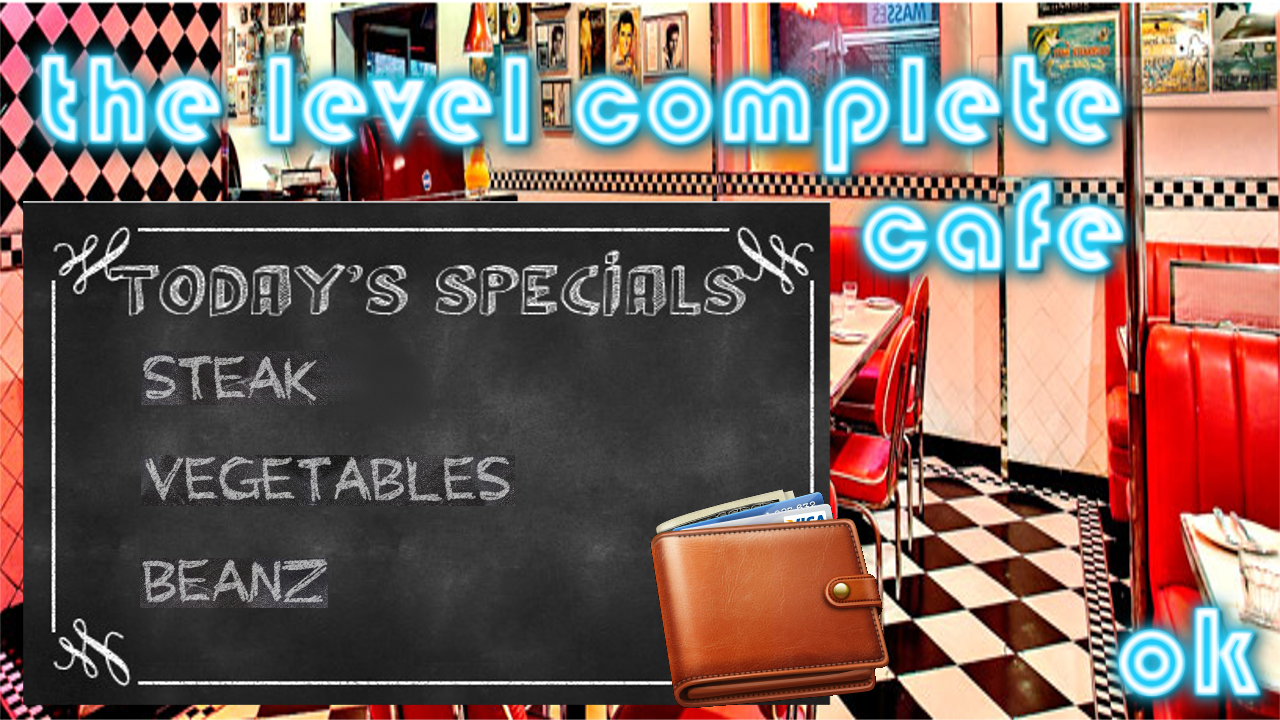
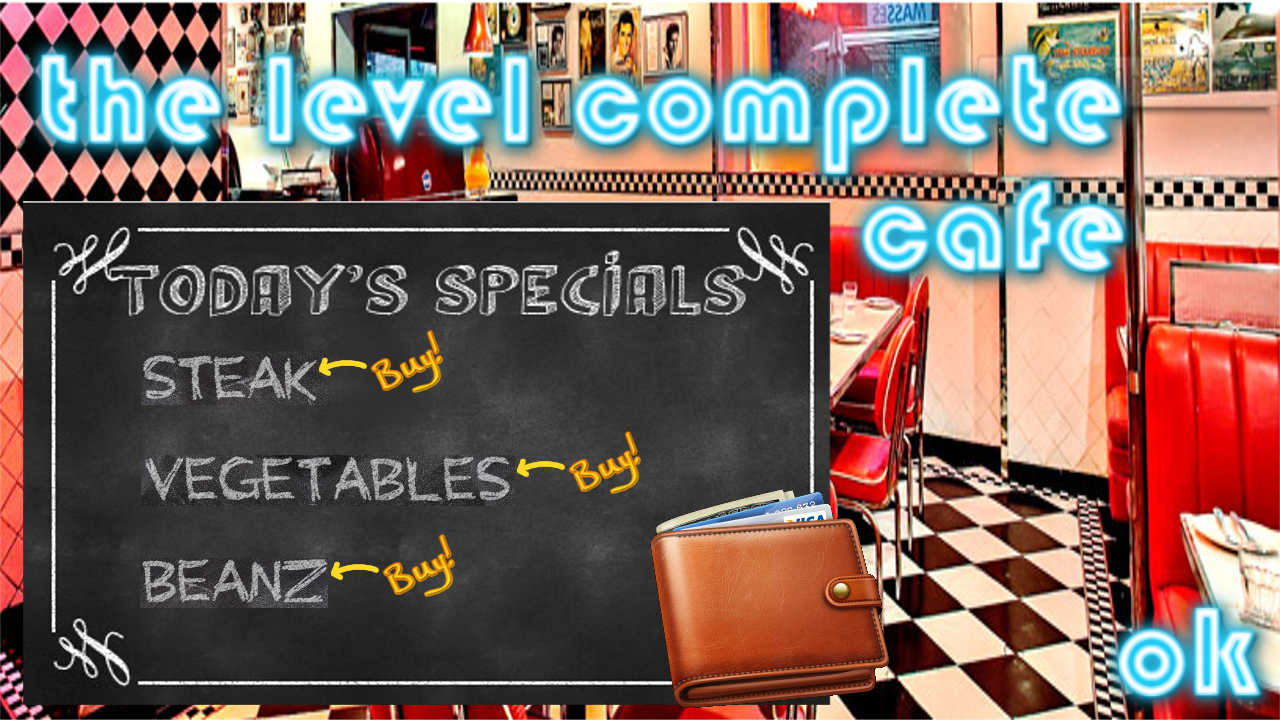
Updated LevelComplete Cafe sounds and imagery

Changed region(s): [[0.25, 0.7333, 0.375, 0.825], [0.4062, 0.6111, 0.5, 0.7028], [0.25, 0.4583, 0.3438, 0.55]]

diff --git a/core/src/com/chopstickphoenix/miniwrestlesurvival/screens/LevelComplete.java b/core/src/com/chopstickphoenix/miniwrestlesurvival/screens/LevelComplete.java
@@ -6,12 +6,15 @@ import com.badlogic.gdx.Game;
 import com.badlogic.gdx.Gdx;
 import com.badlogic.gdx.Screen;
 import com.badlogic.gdx.graphics.OrthographicCamera;
+import com.badlogic.gdx.graphics.g2d.Animation;
+import com.badlogic.gdx.graphics.g2d.Animation.PlayMode;
 import com.badlogic.gdx.graphics.g2d.BitmapFont;
 import com.badlogic.gdx.graphics.g2d.Sprite;
 import com.badlogic.gdx.graphics.g2d.SpriteBatch;
 import com.badlogic.gdx.math.Rectangle;
 import com.badlogic.gdx.math.Vector2;
 import com.badlogic.gdx.math.Vector3;
+import com.badlogic.gdx.utils.Array;
 import com.chopstickphoenix.miniwrestlesurvival.utilities.AssetLoader;
 import com.chopstickphoenix.miniwrestlesurvival.utilities.GameData;
 
@@ -27,7 +30,8 @@ public class LevelComplete implements Screen {
 	private OrthographicCamera camera;
 	private DecimalFormat df;
 	private Vector3 inputVector3;
-	
+	private Array<DollarSign> dollars;
+
 	//Temp Utility
 	//ShapeRenderer shapeRenderer;
 	
@@ -53,6 +57,24 @@ public class LevelComplete implements Screen {
 		this.gameData = gameData;
 	}
 	
+	private class DollarSign {
+		public float animationTimerDollar;
+		public Animation animationDollar;
+		
+		public DollarSign() {
+			animationDollar = new Animation(1/20f, AssetLoader.animationDollar.getRegions());
+			animationDollar.setPlayMode(PlayMode.NORMAL);
+		}
+		
+		public void draw(SpriteBatch batch, float delta){
+			animationTimerDollar += delta;
+			batch.draw(this.animationDollar.getKeyFrame(animationTimerDollar), scorePosition.x, scorePosition.y);
+		}
+		public boolean getIsFinished(){
+			return (animationDollar.isAnimationFinished(animationTimerDollar));
+		}
+	}
+		
 	@Override
 	public void show() {
 		camera = new OrthographicCamera();
@@ -62,6 +84,7 @@ public class LevelComplete implements Screen {
 		gameData.setLevel(gameData.getLevel() +1); //add 1 level
 		df = new DecimalFormat("#.##"); //used to round any numbers to 2 decimal points
 		inputVector3 = new Vector3();
+		dollars = new Array<DollarSign>();
 		//Score handlers
 		intCostAtkPwr = (int) (gameData.getCurrentScore() * 0.6);
 		intCostBeanz  = (int) (gameData.getCurrentScore() * 0.6);
@@ -74,11 +97,11 @@ public class LevelComplete implements Screen {
 
 	@Override
 	public void render(float delta) {
-	handleGraphics();
+	handleGraphics(delta);
 	handleInput();
 	}
 
-	private void handleGraphics() {
+	private void handleGraphics(float delta) {
 		batch.setProjectionMatrix(camera.combined);
 		batch.begin();
 		spriteBackground.draw(batch);
@@ -93,6 +116,13 @@ public class LevelComplete implements Screen {
 		//beanz string
 		if(gameData.getCansOfBeans() < 3)font.draw(batch, "Extra fartz: " + intCostBeanz, energyPosition.x, energyPosition.y);
 		if(gameData.getCansOfBeans() == 3)font.draw(batch, "3/3 Canz", energyPosition.x, energyPosition.y);
+		// draw dollar signs
+		for (DollarSign d : dollars){
+			d.draw(batch, delta);
+			if (d.getIsFinished()){
+				dollars.removeValue(d, false);
+			}
+		}
 		batch.end();
 		
 		/*
@@ -120,29 +150,30 @@ public class LevelComplete implements Screen {
 				wrestleRumble.setScreen(new GameScreen(wrestleRumble, gameData));
 				System.out.println("Launching new level from LevelComplete Screen");
 				inputVector3.set(0, 0, 0);
+				AssetLoader.lightning.play();
 			}
 			if (rectBuyAttackPwr.contains(inputVector3.x, inputVector3.y)){
 				if (gameData.getCurrentScore() >= intCostAtkPwr){
 					gameData.setAttackPower(gameData.getAttackPower() + 1);
 					gameData.setCurrentScore(gameData.getCurrentScore()-intCostAtkPwr);
-					AssetLoader.chairCollision.play();
 					inputVector3.set(0, 0, 0);
+					AssetLoader.cashRegister.play();
 				}
 			}
 			if (rectBuyHealth.contains(inputVector3.x, inputVector3.y)){
 				if (gameData.getCurrentScore() >= intCostHealth && gameData.getHealth() != 100){
 					gameData.setHealth(100);
 					gameData.setCurrentScore(gameData.getCurrentScore()-intCostHealth);
-					AssetLoader.lightning.play();
 					inputVector3.set(0, 0, 0);
+					AssetLoader.cashRegister.play();
 				}
 			}
 			if (rectBuyEnergy.contains(inputVector3.x, inputVector3.y)){
 				if (gameData.getCurrentScore() >= intCostBeanz && gameData.getCansOfBeans() <= 2){
 					gameData.setCansOfBeans(3);
 					gameData.setCurrentScore(gameData.getCurrentScore()-intCostBeanz);
-					AssetLoader.fart.play();
 					inputVector3.set(0, 0, 0);
+					AssetLoader.cashRegister.play();
 				}
 			}
 		}

diff --git a/core/src/com/chopstickphoenix/miniwrestlesurvival/utilities/AssetLoader.java b/core/src/com/chopstickphoenix/miniwrestlesurvival/utilities/AssetLoader.java
@@ -19,7 +19,7 @@ public class AssetLoader {
 	static public TextureRegion hudOverlay;
 	//Dynamic Game Objects
 	static public TextureRegion chairBullet, enemy1, enemy2, enemy3, enemy4, enemy5, enemy6, enemy7, explosion, lightning1, lightning2, lightning3;
-	static public TextureAtlas explosionSmall;
+	static public TextureAtlas explosionSmall, animationDollar;
 	//Main Character Assets
 	static public TextureAtlas mainCharacterRunningRight, mainCharacterThrowChairRight,
 									mainCharacterThrowChairLeft, mainCharacterRunningLeft;
@@ -40,7 +40,7 @@ public class AssetLoader {
 
 	//Sounds
 	static public Sound throwChair, chairCollision, fart, footStep, voiceDenied, voiceFlawlessVictory, 
-						voiceGodlike, voiceHeadshot, voiceUnstoppable, lightning, jump;
+						voiceGodlike, voiceHeadshot, voiceUnstoppable, lightning, jump, cashRegister;
 	static public Music musicLoop;
 	
 	static public void load() {
@@ -71,6 +71,7 @@ public class AssetLoader {
 		lightning2 = new TextureRegion(new Texture(Gdx.files.internal("dynamicObjects/lightning2.png")));
 		lightning3 = new TextureRegion(new Texture(Gdx.files.internal("dynamicObjects/lightning3.png")));
 		explosionSmall = new TextureAtlas(Gdx.files.internal("animations/explosions/explosionSmall.pack"));
+		animationDollar = new TextureAtlas(Gdx.files.internal("animations/dollar/animationDollar.pack"));
 		//Main Character Assets
 		mainCharacterRunningLeft = new TextureAtlas(Gdx.files.internal("animations/mainCharacter/mainLeftRun.pack"));
 		mainCharacterRunningRight = new TextureAtlas(Gdx.files.internal("animations/mainCharacter/mainRightRun.pack"));
@@ -93,6 +94,7 @@ public class AssetLoader {
 		voiceUnstoppable = Gdx.audio.newSound(Gdx.files.internal("sounds/voiceGodlike.mp3"));
 		lightning = Gdx.audio.newSound(Gdx.files.internal("sounds/lightning.mp3"));
 		jump = Gdx.audio.newSound(Gdx.files.internal("sounds/jump.wav"));
+		cashRegister = Gdx.audio.newSound(Gdx.files.internal("sounds/cashRegister.mp3"));
 		//Enemies
 		e1Climb = new TextureAtlas(Gdx.files.internal("animations/enemy1/e1Climb.pack"));
 		e1RightFight = new TextureAtlas(Gdx.files.internal("animations/enemy1/e1RightFight.pack"));

diff --git a/android/src/com/chopstickphoenix/miniwrestlesurvival/android/AndroidLauncher.java b/android/src/com/chopstickphoenix/miniwrestlesurvival/android/AndroidLauncher.java
@@ -10,6 +10,7 @@ import android.view.WindowManager;
 import android.webkit.MimeTypeMap;
 import android.widget.Toast;
 
+import com.badlogic.gdx.assets.loaders.AssetLoader;
 import com.badlogic.gdx.backends.android.AndroidApplication;
 import com.badlogic.gdx.backends.android.AndroidApplicationConfiguration;
 import com.badlogic.gdx.utils.Timer;
@@ -130,6 +131,7 @@ public class AndroidLauncher extends AndroidApplication implements MackdaddyInte
 	public void onPause() {
 	    super.onPause();
 	    Swarm.setInactive(this);
+	    com.chopstickphoenix.miniwrestlesurvival.utilities.AssetLoader.musicLoop.stop();
 	}
 
 @Override
